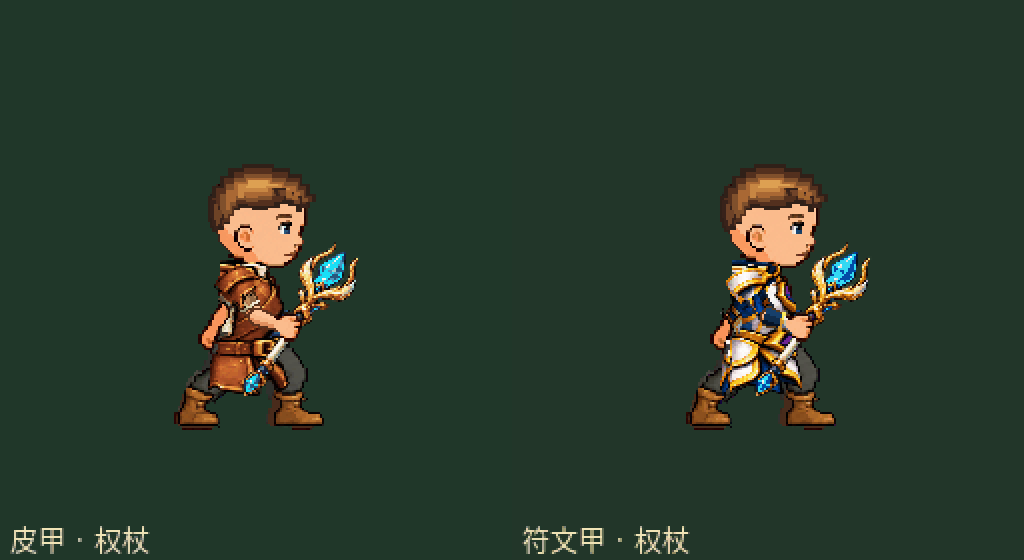
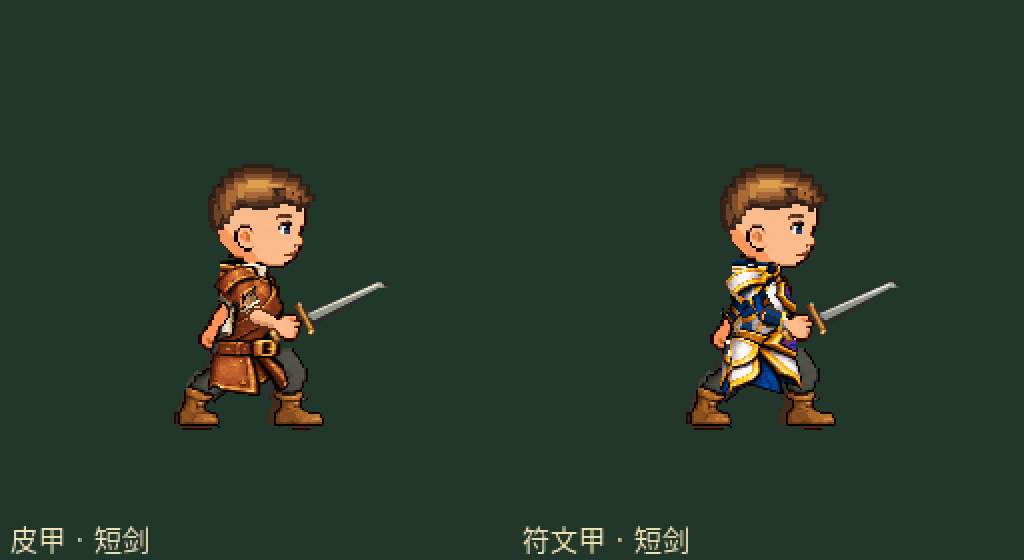
Show repaired armor arm articulation in normal-speed sword comparison with stable palette [skip ci]

diff --git a/scripts/review-armor-fit-comparison.py b/scripts/review-armor-fit-comparison.py
@@ -6,9 +6,19 @@ R=Path(__file__).resolve().parents[1];D=R/'Art/Review/Battle/armor-fit-r2'
 gifs=[Image.open(D/(x+'-attack-normal.gif')) for x in ['leatherArmor','runeArmor']];frames=[];dur=[]
 for i in range(gifs[0].n_frames):
  out=Image.new('RGB',(1024,560),'#20372a')
- for j,g in enumerate(gifs):g.seek(i);out.paste(g.convert('RGB').crop((768,0,1024,280)).resize((512,560),Image.Resampling.NEAREST),(j*512,0))
+ for j,g in enumerate(gifs):g.seek(i);out.paste(g.convert('RGB').crop((0,0,256,280)).resize((512,560),Image.Resampling.NEAREST),(j*512,0))
  frames.append(out);dur.append(gifs[0].info['duration'])
-frames[0].save(D/'armors-standing.png');frames[0].save(D/'armors-body-normal.gif',save_all=True,append_images=frames[1:],duration=dur,loop=0,disposal=2,optimize=True)
+frames[0].save(D/'armors-standing.png')
+# Keep one palette throughout the comparison, avoiding secondary quantization
+# flicker. The original per-weapon GIF timings and held poses remain intact.
+sample=Image.new('RGB',(4096,2240))
+for j in range(16):sample.paste(frames[round(j*(len(frames)-1)/15)],(j%4*1024,j//4*560))
+palette=sample.quantize(colors=256,method=Image.Quantize.MEDIANCUT)
+encoded=[im.quantize(palette=palette,dither=Image.Dither.NONE) for im in frames]
+encoded[0].save(D/'armors-body-normal.gif',save_all=True,append_images=encoded[1:],duration=dur,loop=0,disposal=2,optimize=True)
+gif=Image.open(D/'armors-body-normal.gif')
+assert sum((gif.seek(i) or gif.info['duration']) for i in range(gif.n_frames))==sum(dur)
+
 # Compact whole-body contact sheets of every decoded frame, unchanged bow
 # column omitted. All pixels are at native scale; no torso-only crops.
 for item in ['leatherArmor','runeArmor']:

diff --git a/docs/ITERATION_STATUS.md b/docs/ITERATION_STATUS.md
@@ -1,7 +1,7 @@
 # 林间行旅迭代进度 · 2026-10-19
 
 ## 当前：Build63 上臂衣片返修候选（2026-10-29）
-环境恢复后继续用户指出的皮甲右大臂与甲片错位、符文甲右上臂蓝布残角；撤回Build62对应内部美术放行，旧稿和中断候选保留。主线程将旧上臂材质在固定肩(117,141)→肘(128,158)轴上重新贴合，皮甲短袖口独立收齐、去旧袖口重复亮边，符文甲蓝布收在真实臂形内；只替换两张ArmNearUpperWardrobe。22个其他护甲映射／猎弓材质、hero-gait、UIKit层序／骨架、三武器Rig与JSON逐字节保持，原双手／握点／头脸／前臂／护肩／下摆／步态／玩法不改。主线程亲审六状态整身1×/2×、三通用武器全部462实际GIF解码帧、四武器板；权杖idle/attack0/attack1整人RGBA一致。正常GIF/站姿已生成，纯资产回归通过，待Intel设备Release／包校验／公开GET，候选1.6.37/build63。新美术用户认可null，无App／模拟器／实机，无智能体／整人生成。必须实际发正常全身GIF、站姿、已核HTTPS和直接IPA，不能只报告环境恢复。后两项仍为饰品槽及属性反馈、B2背包装备界面与存档，本轮不自动开始。
+环境恢复后继续用户指出的皮甲右大臂与甲片错位、符文甲右上臂蓝布残角；撤回Build62对应内部美术放行，旧稿和中断候选保留。主线程将旧上臂材质在固定肩(117,141)→肘(128,158)轴上重新贴合，皮甲短袖口独立收齐、去旧袖口重复亮边，符文甲蓝布收在真实臂形内；只替换两张ArmNearUpperWardrobe。22个其他护甲映射／猎弓材质、hero-gait、UIKit层序／骨架、三武器Rig与JSON逐字节保持，原双手／握点／头脸／前臂／护肩／下摆／步态／玩法不改。主线程亲审六状态整身1×/2×、三通用武器全部462实际GIF解码帧、四武器板；权杖idle/attack0/attack1整人RGBA一致。正常GIF/站姿已生成，主对比GIF展示抬臂更充分的短剑动作，固定全程调色板避免二次编码色阶跳变；纯资产回归通过，待Intel设备Release／包校验／公开GET，候选1.6.37/build63。新美术用户认可null，无App／模拟器／实机，无智能体／整人生成。必须实际发正常全身GIF、站姿、已核HTTPS和直接IPA，不能只报告环境恢复。后两项仍为饰品槽及属性反馈、B2背包装备界面与存档，本轮不自动开始。
 
 ## 中断记录：护甲上臂返修未完成（2026-10-29）
 用户继续指出皮甲右大臂与臂甲错位、符文甲右臂蓝布残角；撤回 Build62 上臂衣片相关内部美术放行，原交付与旧稿保留。主线程检查分层原图：补齐皮肤沿肩(117,141)→肘(128,158)，旧衣片仍横向偏离骨轴，符文甲衣片末端留下伸出的蓝色布角。当前已在工作区生成 r2 试稿：只把两件上臂衣片的原材质贴合既有肩肘轴，收齐短袖口／蓝布轮廓；双手、握点、头脸、骨架、护肩、前臂、下摆和原武器动作不改。试稿尚未成功打开图片审查，不能认定修复通过。

diff --git a/AGENTS.md b/AGENTS.md
@@ -1,7 +1,7 @@
 # 项目协作规则
 
 ## 当前：Build63 上臂衣片返修候选（2026-10-29）
-环境恢复后继续用户指出的皮甲右大臂与甲片错位、符文甲右上臂蓝布残角；撤回Build62对应内部美术放行，旧稿和中断候选保留。主线程将旧上臂材质在固定肩(117,141)→肘(128,158)轴上重新贴合，皮甲短袖口独立收齐、去旧袖口重复亮边，符文甲蓝布收在真实臂形内；只替换两张ArmNearUpperWardrobe。22个其他护甲映射／猎弓材质、hero-gait、UIKit层序／骨架、三武器Rig与JSON逐字节保持，原双手／握点／头脸／前臂／护肩／下摆／步态／玩法不改。主线程亲审六状态整身1×/2×、三通用武器全部462实际GIF解码帧、四武器板；权杖idle/attack0/attack1整人RGBA一致。正常GIF/站姿已生成，纯资产回归通过，待Intel设备Release／包校验／公开GET，候选1.6.37/build63。新美术用户认可null，无App／模拟器／实机，无智能体／整人生成。必须实际发正常全身GIF、站姿、已核HTTPS和直接IPA，不能只报告环境恢复。后两项仍为饰品槽及属性反馈、B2背包装备界面与存档，本轮不自动开始。
+环境恢复后继续用户指出的皮甲右大臂与甲片错位、符文甲右上臂蓝布残角；撤回Build62对应内部美术放行，旧稿和中断候选保留。主线程将旧上臂材质在固定肩(117,141)→肘(128,158)轴上重新贴合，皮甲短袖口独立收齐、去旧袖口重复亮边，符文甲蓝布收在真实臂形内；只替换两张ArmNearUpperWardrobe。22个其他护甲映射／猎弓材质、hero-gait、UIKit层序／骨架、三武器Rig与JSON逐字节保持，原双手／握点／头脸／前臂／护肩／下摆／步态／玩法不改。主线程亲审六状态整身1×/2×、三通用武器全部462实际GIF解码帧、四武器板；权杖idle/attack0/attack1整人RGBA一致。正常GIF/站姿已生成，主对比GIF展示抬臂更充分的短剑动作，固定全程调色板避免二次编码色阶跳变；纯资产回归通过，待Intel设备Release／包校验／公开GET，候选1.6.37/build63。新美术用户认可null，无App／模拟器／实机，无智能体／整人生成。必须实际发正常全身GIF、站姿、已核HTTPS和直接IPA，不能只报告环境恢复。后两项仍为饰品槽及属性反馈、B2背包装备界面与存档，本轮不自动开始。
 
 ## 中断记录：护甲上臂返修未完成（2026-10-29）
 用户继续指出皮甲右大臂与臂甲错位、符文甲右臂蓝布残角；撤回 Build62 上臂衣片相关内部美术放行，原交付与旧稿保留。主线程检查分层原图：补齐皮肤沿肩(117,141)→肘(128,158)，旧衣片仍横向偏离骨轴，符文甲衣片末端留下伸出的蓝色布角。当前已在工作区生成 r2 试稿：只把两件上臂衣片的原材质贴合既有肩肘轴，收齐短袖口／蓝布轮廓；双手、握点、头脸、骨架、护肩、前臂、下摆和原武器动作不改。试稿尚未成功打开图片审查，不能认定修复通过。
